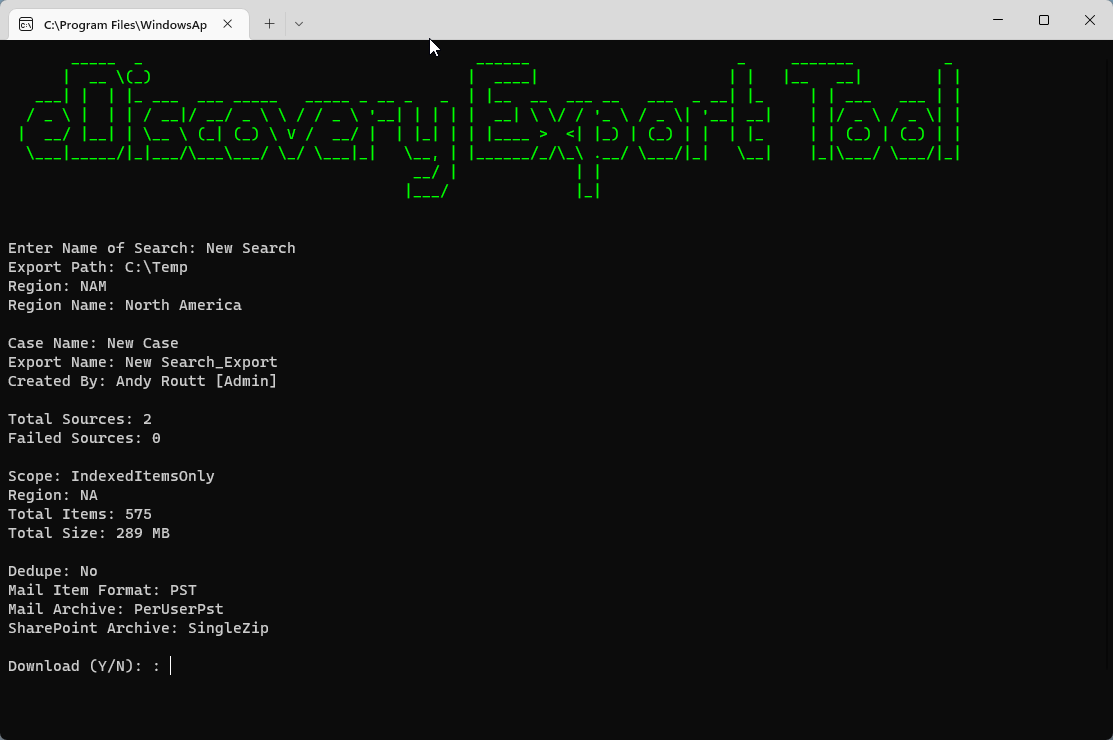
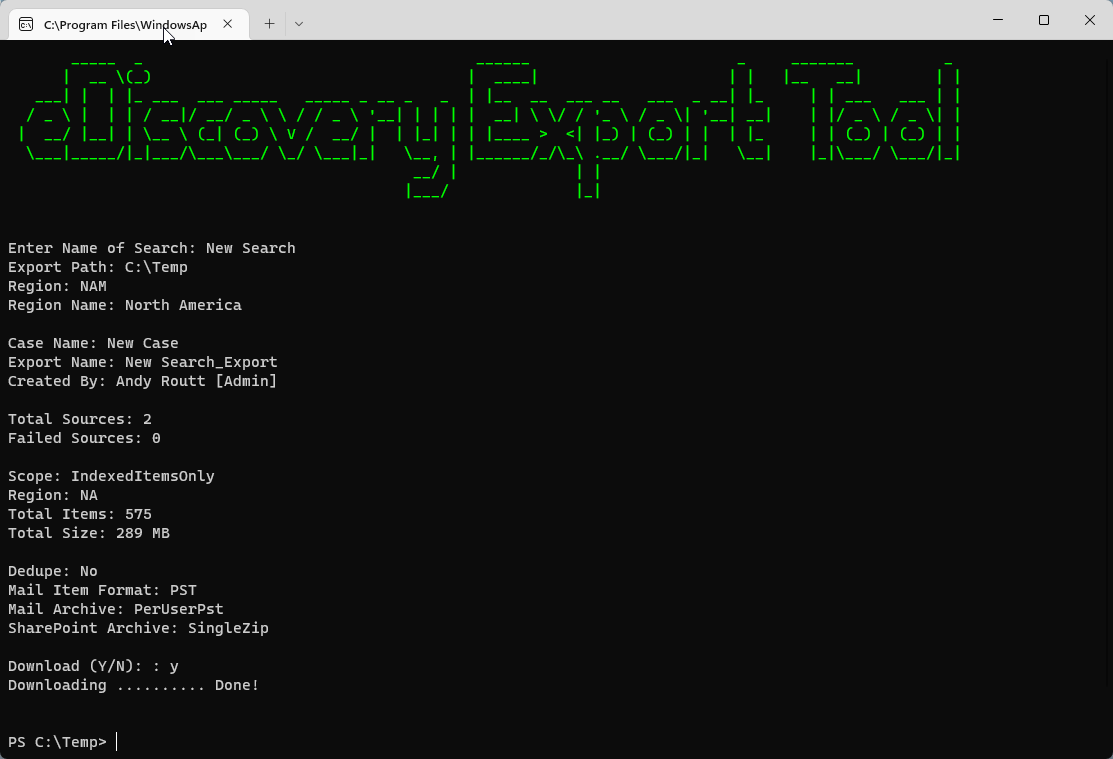
update readme

diff --git a/README.md b/README.md
@@ -4,24 +4,30 @@ Powershell script to create and download eDiscovery searches from Purview Compli
 
 ### Prerequisites
 
-- eDiscovery Export Tool
-- ExchangeOnlineManagement Module
-- Figlet Module
-
-### Setup
-
-1. Install the [Microsoft eDiscovery Export Tool](https://complianceclientsdf.blob.core.windows.net/v16/Microsoft.Office.Client.Discovery.UnifiedExportTool.application)
-
+- [Microsoft eDiscovery Export Tool](https://complianceclientsdf.blob.core.windows.net/v16/Microsoft.Office.Client.Discovery.UnifiedExportTool.application)
+- [ExchangeOnlineManagement Module](https://www.powershellgallery.com/packages/ExchangeOnlineManagement/)
+- [Figlet Module](https://www.powershellgallery.com/packages/Figlet/)
+- Existing eDiscovery Search
 
 ### Usage
+
+1. Create a new eDiscovery search within Purview Compliance Center 
+	&rarr; [Search for content in a eDiscovery (Standard) case](https://learn.microsoft.com/en-us/microsoft-365/compliance/ediscovery-search-for-content?source=recommendations&view=o365-worldwide)
+	<p>
+
+2. Launch eDiscovery-Export-Tool
 
 ```
 PS> eDiscovery-Export-Tool.ps1
 ```
 
-<img src="imgs/image1.png" style="border: 1px solid black">
-<img src="imgs/image2.png" style="border: 1px solid black">
-<img src="imgs/image3.png" style="border: 1px solid black">
+3. Enter Search Name, Export Path, and Region
+
+<img src="imgs/image1.png" style="border: 1px solid white">
+
+4. Accept prompt to download
+
+<img src="imgs/image2.png" style="border: 1px solid white">
 
 ### Disclaimer
 
